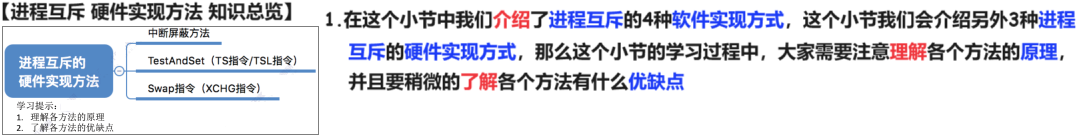
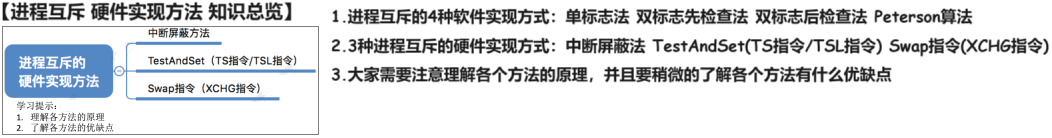
240601

diff --git a/01 初试/01 OS/02 24 25 王道/01 基础/02 进程 线程/03 同步 互斥/03 进程互斥 硬件实现方法 240601/02 消化/02 Doc.md b/01 初试/01 OS/02 24 25 王道/01 基础/02 进程 线程/03 同步 互斥/03 进程互斥 硬件实现方法 240601/02 消化/02 Doc.md
@@ -4,7 +4,7 @@
 
 # 01 进程互斥 硬件实现方法 知识总览
 
-
+<img src="https://cvp.oss-cn-shanghai.aliyuncs.com/picgo/202406010831636.png" alt="image-20240601083107448" style="zoom:50%;" />
 
 
 
